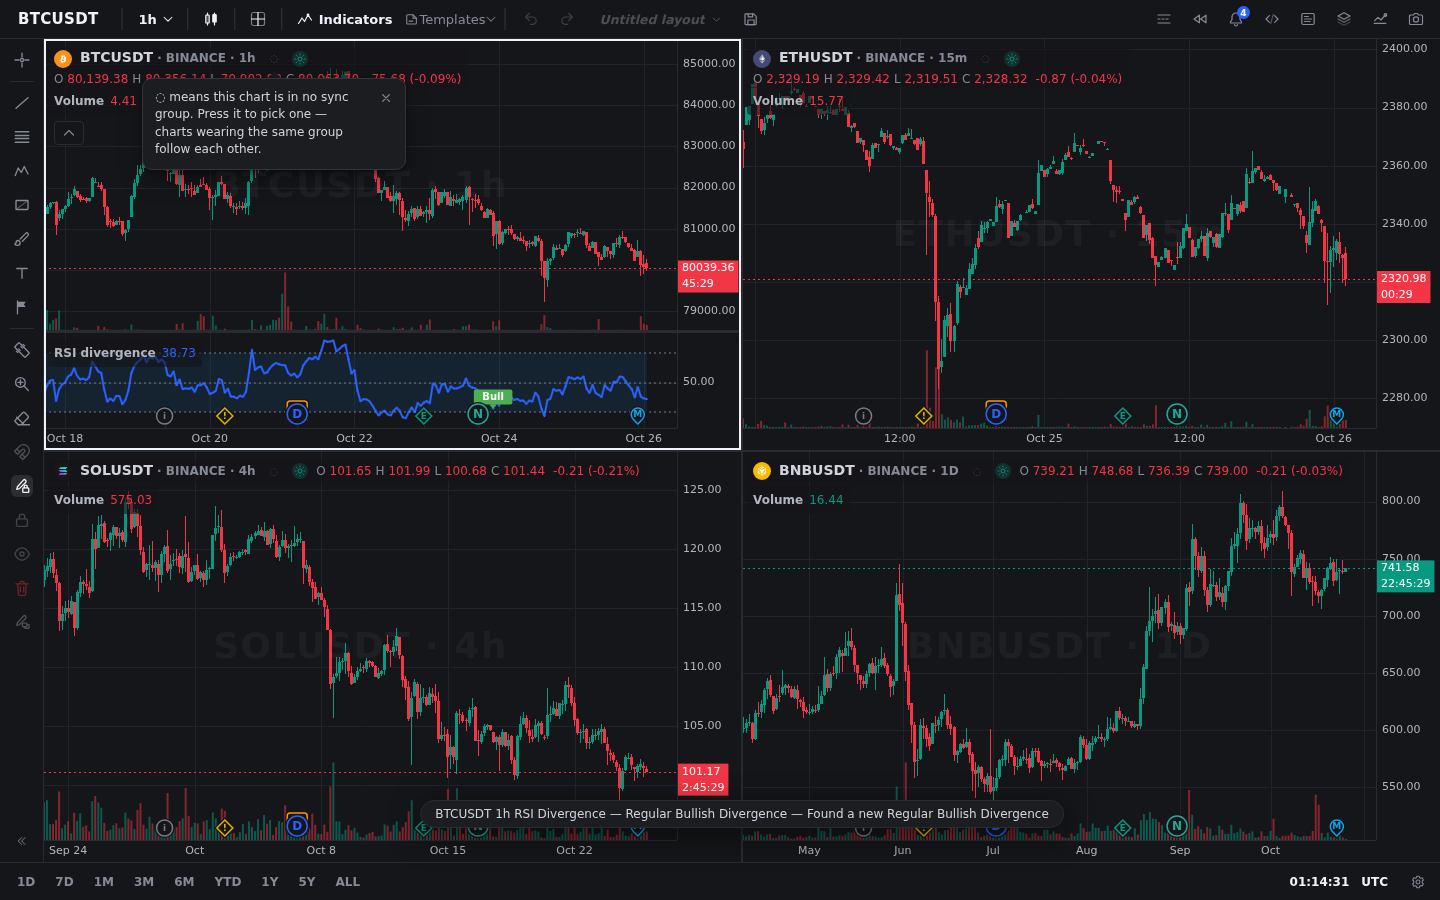
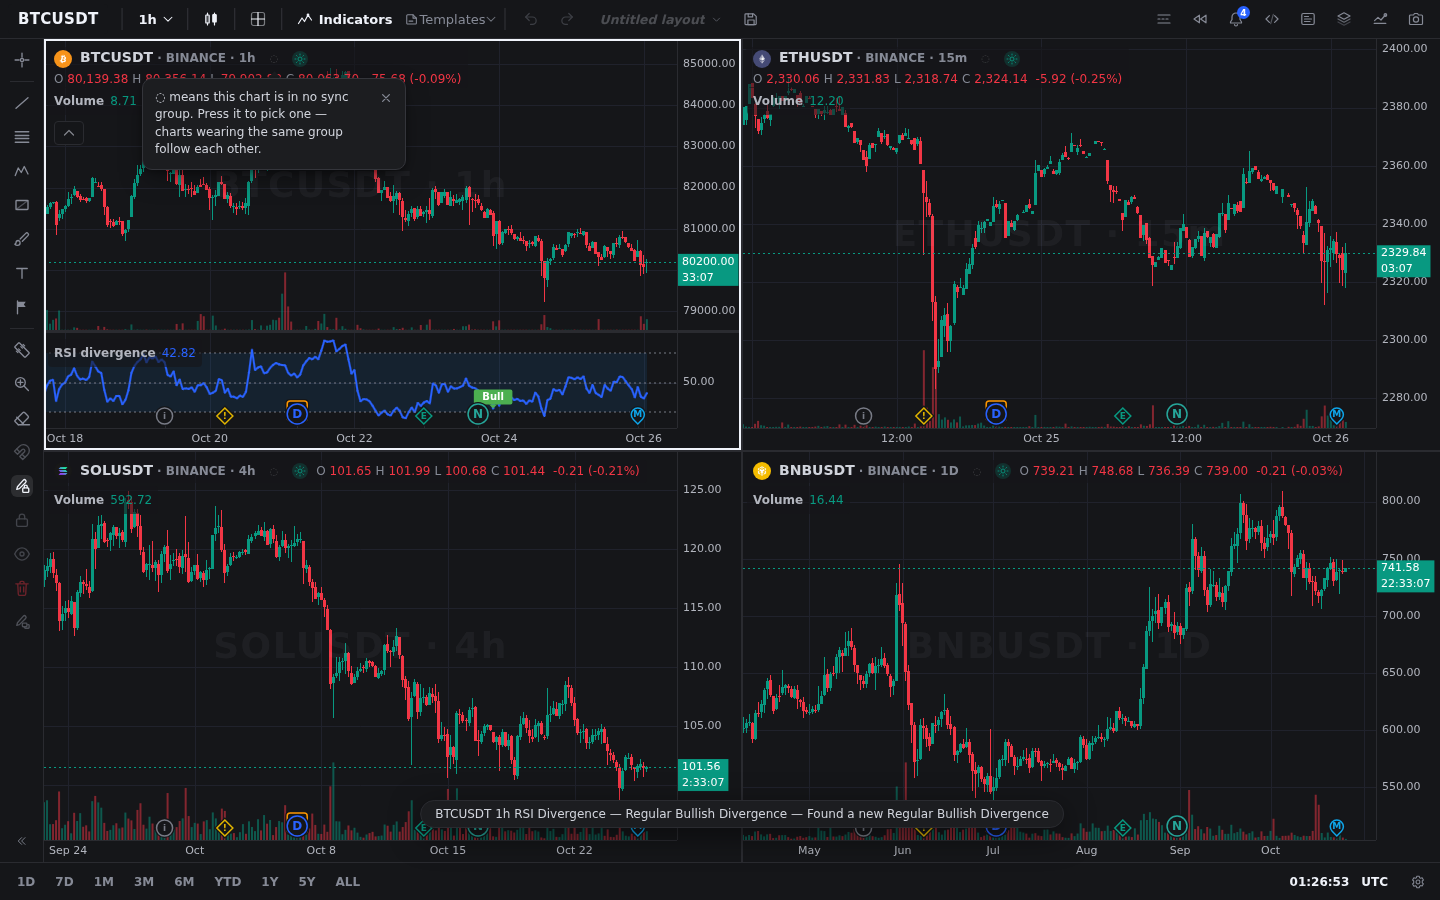
R70: state-bound chrome is built by its state
The scroll-to-latest chip, the REPLAY watermark line, the status line's replay
badge and its show-chart eye were built with their chart and kept hidden — 68
nodes across four cells that only ever mean something in a replay, a scroll
back or a hidden chart. Each is now built the first time its state arrives,
and the chip is born at the size class in force (32px on a phone, not 26).

Desktop 663 -> 595 elements; phone 462 -> 394. Budget tightened to 620 / 410.
New probe sync-state-bound-chrome exercises both size classes: nothing at rest,
the chip on a scroll-back (hover on desktop, the scroll itself on a phone) and
its jump back, the watermark + badge for a replay and their hiding after it,
the eye on a hide and the restore. 571 unit tests + 21 browser probes green.

diff --git a/src/widget/statusline.ts b/src/widget/statusline.ts
@@ -361,12 +361,12 @@ export class Statusline {
     private readonly marksEl: HTMLButtonElement;
     /** The market status face — a kit callout bubble. */
     private readonly marketBubble: CalloutBubble;
-    /** The replay face — see {@link REPLAY_BADGE_SVG}. */
-    private readonly replayBadge: HTMLElement;
+    /** The replay face — built by the first replay (see {@link ensureReplayBadge}). */
+    private replayBadge: HTMLElement | null = null;
     private marketTip!: Tooltip;
-    /** The show-chart eye — visible only while the chart is hidden. */
-    private readonly eyeEl: HTMLButtonElement;
-    private eyeTip!: Tooltip;
+    /** The show-chart eye — built when the chart is first hidden (see {@link syncParts}). */
+    private eyeEl: HTMLButtonElement | null = null;
+    private eyeTip: Tooltip | null = null;
     private avatarEl: HTMLElement;
     private metaEl!: HTMLElement;
     private readonly parts: Record<StatuslinePart, boolean> = { logo: true, name: true, market: true, ohlc: true, change: true };
@@ -442,31 +442,18 @@ export class Statusline {
             label: MARKET_LABELS.open,
             host,
         });
-        this.replayBadge = doc.createElement('span');
-        this.replayBadge.className = 'vela-sl-replay-badge';
-        this.replayBadge.innerHTML = REPLAY_BADGE_SVG;
-        this.replayBadge.hidden = true;
-        // One slot, two faces: the market bubble, or the replay badge while replaying.
+        // One slot, two faces: the market bubble, or the replay badge while replaying (that
+        // one is built by the first replay — a chart that never replays carries none of it).
         this.marketEl = doc.createElement('span');
         this.marketEl.className = 'vela-sl-market';
-        this.marketEl.append(this.marketBubble.el, this.replayBadge);
+        this.marketEl.append(this.marketBubble.el);
         this.ohlcEl = doc.createElement('span');
         this.ohlcEl.className = 'vela-sl-ohlc';
         this.changeEl = doc.createElement('span');
         this.changeEl.className = 'vela-sl-change';
-        // Show-chart eye: takes the value readout's place while the chart is hidden
-        // (same glyph the legend rows wear on a hidden indicator). syncParts drives it.
-        this.eyeEl = doc.createElement('button');
-        this.eyeEl.type = 'button';
-        this.eyeEl.className = 'vela-sl-eye';
-        this.eyeEl.innerHTML = iconAt('eye-off', 14);
-        this.eyeEl.setAttribute('aria-label', 'Show chart');
-        this.eyeEl.style.display = 'none';
-        this.eyeEl.addEventListener('click', (e) => {
-            e.stopPropagation(); // never bubbles into the chip's own handlers
-            this.menuHooks?.setChartVisible(true);
-            this.setChartHidden(false);
-        });
+        // Show-chart eye: takes the value readout's place while the chart is hidden (same
+        // glyph the legend rows wear on a hidden indicator). Built by the first hide —
+        // syncParts makes it when a hidden chart needs it.
         this.identityRow = doc.createElement('span');
         this.identityRow.className = 'vela-sl-row vela-sl-identity';
         this.marksEl = doc.createElement('button');
@@ -480,7 +467,7 @@ export class Statusline {
         this.identityRow.append(this.avatarEl, this.symbolEl, this.metaEl, this.marksEl, this.marketEl);
         this.valuesRow = doc.createElement('span');
         this.valuesRow.className = 'vela-sl-row vela-sl-values';
-        this.valuesRow.append(this.ohlcEl, this.changeEl, this.eyeEl);
+        this.valuesRow.append(this.ohlcEl, this.changeEl);
         this.el.append(this.identityRow, this.valuesRow);
         host.appendChild(this.el);
         // The ladder measures against the plot width — re-fit on every host resize.
@@ -492,7 +479,7 @@ export class Statusline {
         // The tooltips portal to the nearest `.vela-ui` ancestor for theme tokens — resolve
         // them AFTER the statusline is in the DOM. The badge's content follows setMarketStatus.
         this.marketTip = new Tooltip(this.marketEl, { content: MARKET_LABELS.open, placement: 'bottom' });
-        this.eyeTip = new Tooltip(this.eyeEl, { content: 'Show chart', placement: 'bottom' });
+
         this.setMarketStatus('open'); // crypto trades continuously (no session model yet)
         this.render();
     }
@@ -522,13 +509,14 @@ export class Statusline {
     /** Project the parts config onto the segments (the baseline fit() prunes from). */
     private syncParts(): void {
         const seg = segmentVisibility(this.parts, this.chartHidden);
+        if (seg.eye && !this.eyeEl) this.buildEye();
         this.avatarEl.style.display = seg.avatar ? '' : 'none';
         this.symbolEl.style.display = seg.symbol ? '' : 'none';
         this.metaEl.style.display = seg.meta ? '' : 'none';
         this.marketEl.style.display = seg.market ? '' : 'none';
         this.ohlcEl.style.display = seg.ohlc ? '' : 'none';
         this.changeEl.style.display = seg.change ? '' : 'none';
-        this.eyeEl.style.display = seg.eye ? 'inline-flex' : 'none';
+        if (this.eyeEl) this.eyeEl.style.display = seg.eye ? 'inline-flex' : 'none';
         // An empty values row must not hold a gap/padding of its own on the line.
         this.valuesRow.style.display = seg.ohlc || seg.change || seg.eye ? '' : 'none';
     }
@@ -610,9 +598,38 @@ export class Statusline {
         this.dressBadge();
     }
 
+    /** Build the replay face of the market slot — once, on the first replay. */
+    private ensureReplayBadge(): void {
+        if (this.replayBadge) return;
+        this.replayBadge = this.el.ownerDocument.createElement('span');
+        this.replayBadge.className = 'vela-sl-replay-badge';
+        this.replayBadge.innerHTML = REPLAY_BADGE_SVG;
+        this.marketEl.append(this.replayBadge);
+    }
+
+    /** Build the show-chart eye — once, the first time the chart is hidden. It takes the
+     *  value readout's place while the series is not painted. */
+    private buildEye(): void {
+        const doc = this.el.ownerDocument;
+        const eye = doc.createElement('button');
+        eye.type = 'button';
+        eye.className = 'vela-sl-eye';
+        eye.innerHTML = iconAt('eye-off', 14);
+        eye.setAttribute('aria-label', 'Show chart');
+        eye.addEventListener('click', (e) => {
+            e.stopPropagation(); // never bubbles into the chip's own handlers
+            this.menuHooks?.setChartVisible(true);
+            this.setChartHidden(false);
+        });
+        this.valuesRow.appendChild(eye);
+        this.eyeEl = eye;
+        this.eyeTip = new Tooltip(eye, { content: 'Show chart', placement: 'bottom' });
+    }
+
     private dressBadge(): void {
         this.marketBubble.el.hidden = this.replaying;
-        this.replayBadge.hidden = !this.replaying;
+        if (this.replaying) this.ensureReplayBadge();
+        if (this.replayBadge) this.replayBadge.hidden = !this.replaying;
         if (this.replaying) {
             this.marketEl.dataset.status = 'replay';
             this.marketTip.setContent(REPLAY_LABEL);
@@ -749,7 +766,7 @@ export class Statusline {
         this.menu?.destroy();
         this.menu = null;
         this.marketTip.destroy();
-        this.eyeTip.destroy();
+        this.eyeTip?.destroy();
         this.marketBubble.destroy();
         this.host.classList.remove('vela-has-statusline', 'vela-sl-stacked-host'); // the legend shift leaves with the line
         this.el.remove();

diff --git a/src/renderers/native/NativeRenderer.ts b/src/renderers/native/NativeRenderer.ts
@@ -1231,14 +1231,18 @@ export class NativeRenderer implements IChartRenderer {
         btn.type = 'button';
         btn.title = 'Scroll to most recent bar (Alt+Shift+→)';
         btn.setAttribute('aria-label', 'Scroll to most recent bar');
-        btn.innerHTML = this.scrollButtonIcon();
+        // Built lazily (see updateScrollToRealtimeButton), so it must be born at the size class
+        // the chart is in right now: a finger needs the larger chip and glyph a cursor does not.
+        const touch = this.layoutMode === 'mobile';
+        const size = touch ? SCROLL_BTN_SIZE_TOUCH : SCROLL_BTN_SIZE;
+        btn.innerHTML = this.scrollButtonIcon(touch ? SCROLL_BTN_ICON_PX_TOUCH : SCROLL_BTN_ICON_PX);
         Object.assign(btn.style, {
             position: 'absolute',
             bottom: `${SCROLL_BTN_BOTTOM}px`,
             right: `${SCROLL_BTN_RIGHT}px`,
             zIndex: '6',
-            width: `${SCROLL_BTN_SIZE}px`,
-            height: `${SCROLL_BTN_SIZE}px`,
+            width: `${size}px`,
+            height: `${size}px`,
             boxSizing: 'border-box',
             display: 'none', // revealed by updateScrollToRealtimeButton() when the latest bar is off-screen + the cursor is near
             alignItems: 'center',
@@ -1282,10 +1286,13 @@ export class NativeRenderer implements IChartRenderer {
     /** Track cursor proximity to the scroll button on the plot (bubbles from the button too,
      *  so moving onto the button doesn't count as leaving). */
     private readonly onScrollProximityMove = (e: PointerEvent): void => {
-        if (!this.scrollButton || !this.plot) return;
+        // Tracked even before the button exists: this listener is what DECIDES it should be
+        // built (see updateScrollToRealtimeButton).
+        if (!this.plot) return;
         const rect = this.plot.getBoundingClientRect();
-        const cx = rect.width - this.scrollBtnRightPx - SCROLL_BTN_SIZE / 2;
-        const cy = rect.height - this.scrollBtnBottomPx - SCROLL_BTN_SIZE / 2;
+        const chip = this.layoutMode === 'mobile' ? SCROLL_BTN_SIZE_TOUCH : SCROLL_BTN_SIZE;
+        const cx = rect.width - this.scrollBtnRightPx - chip / 2;
+        const cy = rect.height - this.scrollBtnBottomPx - chip / 2;
         const near = Math.hypot(e.clientX - rect.left - cx, e.clientY - rect.top - cy) <= SCROLL_BTN_PROXIMITY_PX;
         if (near !== this.pointerNearScrollBtn) {
             this.pointerNearScrollBtn = near;
@@ -1304,14 +1311,15 @@ export class NativeRenderer implements IChartRenderer {
      *  appears whenever the latest bars are off-screen and hides again once the view is back
      *  at the right edge. */
     private updateScrollToRealtimeButton(): void {
+        const latestOffScreen = this.coords.barCount > 0 && this.coords.getViewport().rightOffset < 0;
+        const want = latestOffScreen && (this.layoutMode === 'mobile' || this.pointerNearScrollBtn);
+        if (want && !this.scrollButton && this.plot) {
+            this.scrollButton = this.makeScrollToRealtimeButton();
+            this.plot.appendChild(this.scrollButton);
+        }
         const btn = this.scrollButton;
         if (!btn) return;
-        const latestOffScreen = this.coords.barCount > 0 && this.coords.getViewport().rightOffset < 0;
-        if (this.layoutMode === 'mobile') {
-            btn.style.display = latestOffScreen ? 'flex' : 'none';
-            return;
-        }
-        btn.style.display = latestOffScreen && this.pointerNearScrollBtn ? 'flex' : 'none';
+        btn.style.display = want ? 'flex' : 'none';
     }
 
     /** Glide the view back to the most recent bars, keeping the current zoom (barSpacing). */
@@ -1634,11 +1642,11 @@ export class NativeRenderer implements IChartRenderer {
         if (this.settingsEnabled) this.setSettingsEnabled(true); // honor a pre-mount feature set
         this.syncCountdownTimer(); // start the countdown pump if the feature is on
 
-        // "Scroll to most recent bar" button: created up front (hidden), revealed on cursor proximity
-        // when the latest bar is scrolled off the right. Proximity is tracked on the plot so moving onto
-        // the button (a plot child) keeps it revealed.
-        this.scrollButton = this.makeScrollToRealtimeButton();
-        this.plot.appendChild(this.scrollButton);
+        // "Scroll to most recent bar" button: built by the state that reveals it (the latest bar
+        // scrolled off-screen, plus cursor proximity on desktop — see
+        // updateScrollToRealtimeButton). A chart that stays at the right edge never builds it.
+        // Proximity is tracked on the plot so moving onto the button (a plot child) keeps it
+        // revealed.
         this.plot.addEventListener('pointermove', this.onScrollProximityMove);
         this.plot.addEventListener('pointerleave', this.onScrollProximityLeave);
         // Demonstration ink is laid down by a HOLD (press, drag, release) — the reference's

diff --git a/src/widget/watermark.ts b/src/widget/watermark.ts
@@ -63,7 +63,9 @@ export function watermarkFontPx(availPx: number, textPxAtMax: number): number {
 export class Watermark {
     readonly el: HTMLElement;
     private readonly text: HTMLElement;
-    private readonly replayLine: HTMLElement;
+    /** The REPLAY line — built by the first replay that shows it (a chart that never
+     *  replays carries none of its nodes). */
+    private replayLine: HTMLElement | null = null;
     private readonly resizeObserver: ResizeObserver | null = null;
     /** The host's visibility preference (the persisted watermark toggle). */
     private shown = true;
@@ -84,10 +86,7 @@ export class Watermark {
         // sits behind the candles.
         this.el.dataset.velaScreenshot = 'under';
         this.text = host.ownerDocument.createElement('span');
-        this.replayLine = host.ownerDocument.createElement('span');
-        this.replayLine.className = 'vela-watermark-replay';
-        this.replayLine.append(iconEl('replay', host.ownerDocument), host.ownerDocument.createTextNode('Replay'));
-        this.el.append(this.text, this.replayLine);
+        this.el.append(this.text);
         host.appendChild(this.el);
         // The el tracks the price pane (CSS insets on the host), so observing it
         // refits on splitter drags and pane-layout changes.
@@ -122,10 +121,23 @@ export class Watermark {
         this.sync();
     }
 
+    /** Build the replay line on the first replay that can show it (see {@link sync}). */
+    private ensureReplayLine(): HTMLElement {
+        if (!this.replayLine) {
+            const doc = this.el.ownerDocument;
+            this.replayLine = doc.createElement('span');
+            this.replayLine.className = 'vela-watermark-replay';
+            this.replayLine.append(iconEl('replay', doc), doc.createTextNode('Replay'));
+            this.el.appendChild(this.replayLine);
+        }
+        return this.replayLine;
+    }
+
     private sync(): void {
         const replay = this.replayShown && this.replaying;
+        if (replay) this.ensureReplayLine();
         this.text.hidden = !this.shown;
-        this.replayLine.hidden = !replay;
+        if (this.replayLine) this.replayLine.hidden = !replay;
         this.el.style.display = (this.shown || replay) && !this.loading ? '' : 'none';
     }
 

diff --git a/test/watermark-replay.test.ts b/test/watermark-replay.test.ts
@@ -12,7 +12,9 @@ function make() {
     document.body.appendChild(host);
     const wm = new Watermark(host, 'BTCUSDT', '60');
     wm.setLoading(false);
-    const line = wm.el.querySelector<HTMLElement>('.vela-watermark-replay')!;
+    // The replay line is built by the first replay that shows it (R70) — so it is looked up
+    // on demand, never at construction.
+    const line = (): HTMLElement => wm.el.querySelector<HTMLElement>('.vela-watermark-replay')!;
     const symbol = wm.el.firstElementChild as HTMLElement;
     const shown = (): boolean => wm.el.style.display !== 'none';
     return { wm, line, symbol, shown };
@@ -22,25 +24,25 @@ describe('Watermark replay line', () => {
     it('shows "Replay" under the symbol line only while replaying', () => {
         const { wm, line, symbol, shown } = make();
         expect(symbol.textContent).toBe('BTCUSDT · 1h');
-        expect(line.textContent).toBe('Replay');
-        expect(line.querySelector('.vela-icon svg')).not.toBeNull();
-        expect(line.hidden).toBe(true);
+        expect(wm.el.querySelector('.vela-watermark-replay')).toBeNull(); // nothing until a replay
         wm.setReplaying(true);
-        expect(line.hidden).toBe(false);
+        expect(line().textContent).toBe('Replay');
+        expect(line().querySelector('.vela-icon svg')).not.toBeNull();
+        expect(line().hidden).toBe(false);
         expect(shown()).toBe(true);
         wm.setReplaying(false);
-        expect(line.hidden).toBe(true);
+        expect(line().hidden).toBe(true);
     });
 
     it('its toggle hides it, and it stands alone when the symbol line is off', () => {
         const { wm, line, symbol, shown } = make();
         wm.setReplaying(true);
         wm.setReplayVisible(false);
-        expect(line.hidden).toBe(true);
+        expect(line().hidden).toBe(true);
         wm.setReplayVisible(true);
         wm.setVisible(false);
         expect(symbol.hidden).toBe(true);
-        expect(line.hidden).toBe(false);
+        expect(line().hidden).toBe(false);
         expect(shown()).toBe(true);
         wm.setReplaying(false);
         expect(shown()).toBe(false); // nothing left to show

diff --git a/test/statusline-replay.test.ts b/test/statusline-replay.test.ts
@@ -21,10 +21,10 @@ describe('Statusline badge', () => {
         expect(badge.dataset.status).toBe('open');
 
         const bubble = badge.querySelector<HTMLElement>('.vela-callout')!;
-        const replay = badge.querySelector<HTMLElement>('.vela-sl-replay-badge')!;
-        expect([bubble.hidden, replay.hidden]).toEqual([false, true]);
+        expect(badge.querySelector('.vela-sl-replay-badge')).toBeNull(); // built by the first replay
 
         line.setReplaying(true);
+        const replay = badge.querySelector<HTMLElement>('.vela-sl-replay-badge')!;
         expect(badge.dataset.status).toBe('replay');
         expect([bubble.hidden, replay.hidden]).toEqual([true, false]);
         // circle and glyph in one drawing, in the inverse chip's colors (white on dark, dark on light)

diff --git a/CHANGELOG.md b/CHANGELOG.md
@@ -118,6 +118,17 @@ All notable changes to Vela, newest first.
 
 ### Changed
 
+- **Chrome that belongs to a state is built by that state.** Four surfaces were created with
+  their chart and merely hidden: the *scroll to the latest bar* chip, the **REPLAY** watermark
+  line, the status line's replay badge and its show-chart eye — 68 nodes across a four-chart
+  workspace, none of them reachable until a replay starts, the view is scrolled back or the
+  chart is hidden. Each is now built the first time its state arrives: the chip the moment a
+  chart with the newest bars off-screen is looked at (and at the size class in force — a
+  phone's chip is the 32px finger target, not the 26px cursor one), the watermark line and the
+  badge on the first replay, the eye on the first hide (and clicking it still restores the
+  chart). Desktop boot is **595 elements** (was 663), a phone **394** (was 462), and every one
+  of them still appears, works and goes away with its state — held by the new
+  `test/browser/sync-state-bound-chrome.mjs`.
 - **One tooltip for the whole shell — built by the first hover.** Every tooltip used to be
   its own floating layer and its own Zag state machine: a positioner, a content box and a
   machine's listeners per control, left in the document hidden for the page's whole life.

diff --git a/docs/user/workspace.md b/docs/user/workspace.md
@@ -673,6 +673,15 @@ that appears near the bottom-centre of a chart is built the first time it is rev
 with the chart — on a phone the compact reset chip is out from the start, because a thumb
 has no hover to wait for.
 
+**Chrome that belongs to a state arrives with that state.** Four surfaces are only ever
+meaningful in one situation, so they are built when it first happens rather than hidden
+until it does: the *scroll to the latest bar* chip (a chart showing its newest bar has
+nothing to jump to), the **REPLAY** watermark line and the status line's replay badge (both
+appear with a session), and the status line's show-chart eye (only while the chart itself is
+hidden). A workspace that never replays, never scrolls back and never hides a chart carries
+none of their nodes — 68 across four cells — and each one comes out at the right size class
+when it arrives (a phone's scroll chip is the 32px finger target, not the 26px cursor one).
+
 **The desktop's chrome is not in a phone's document.** The top bar, the shared drawing rail
 and the bottom bar belong to the desktop size class: on a phone they are detached (not just
 hidden) and come back — in exactly the same place, with the same state — when the layout
